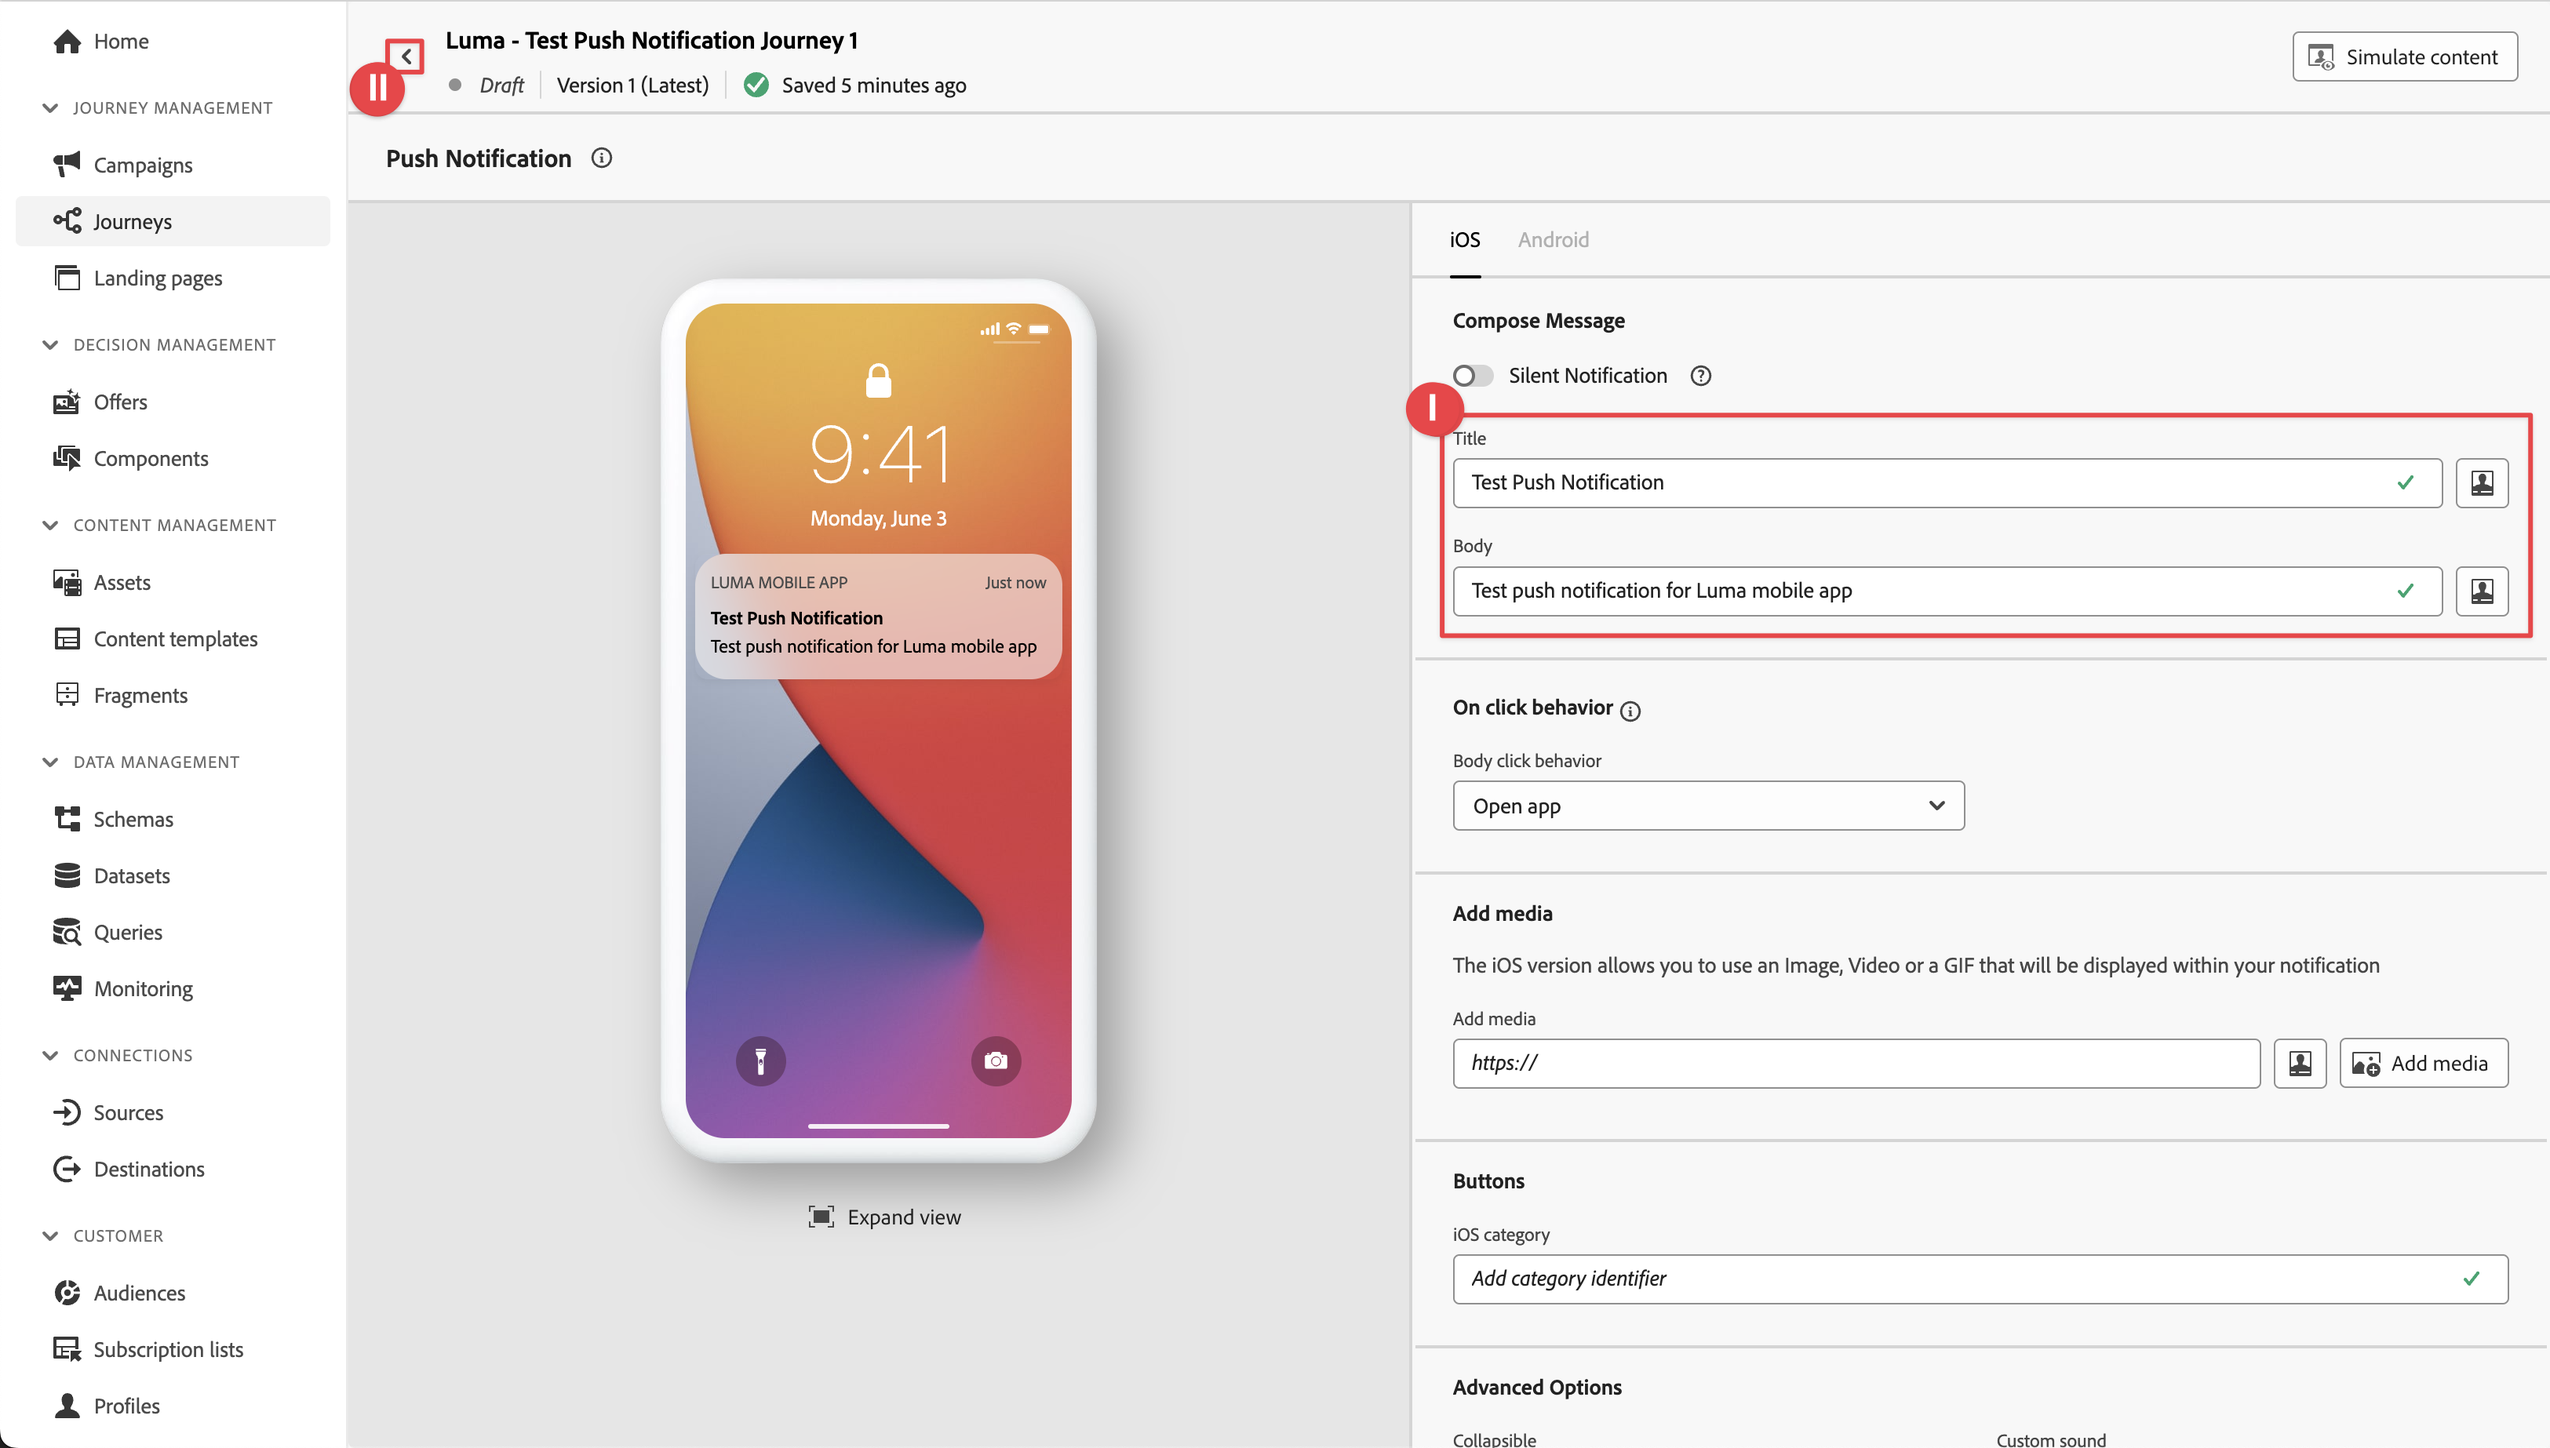
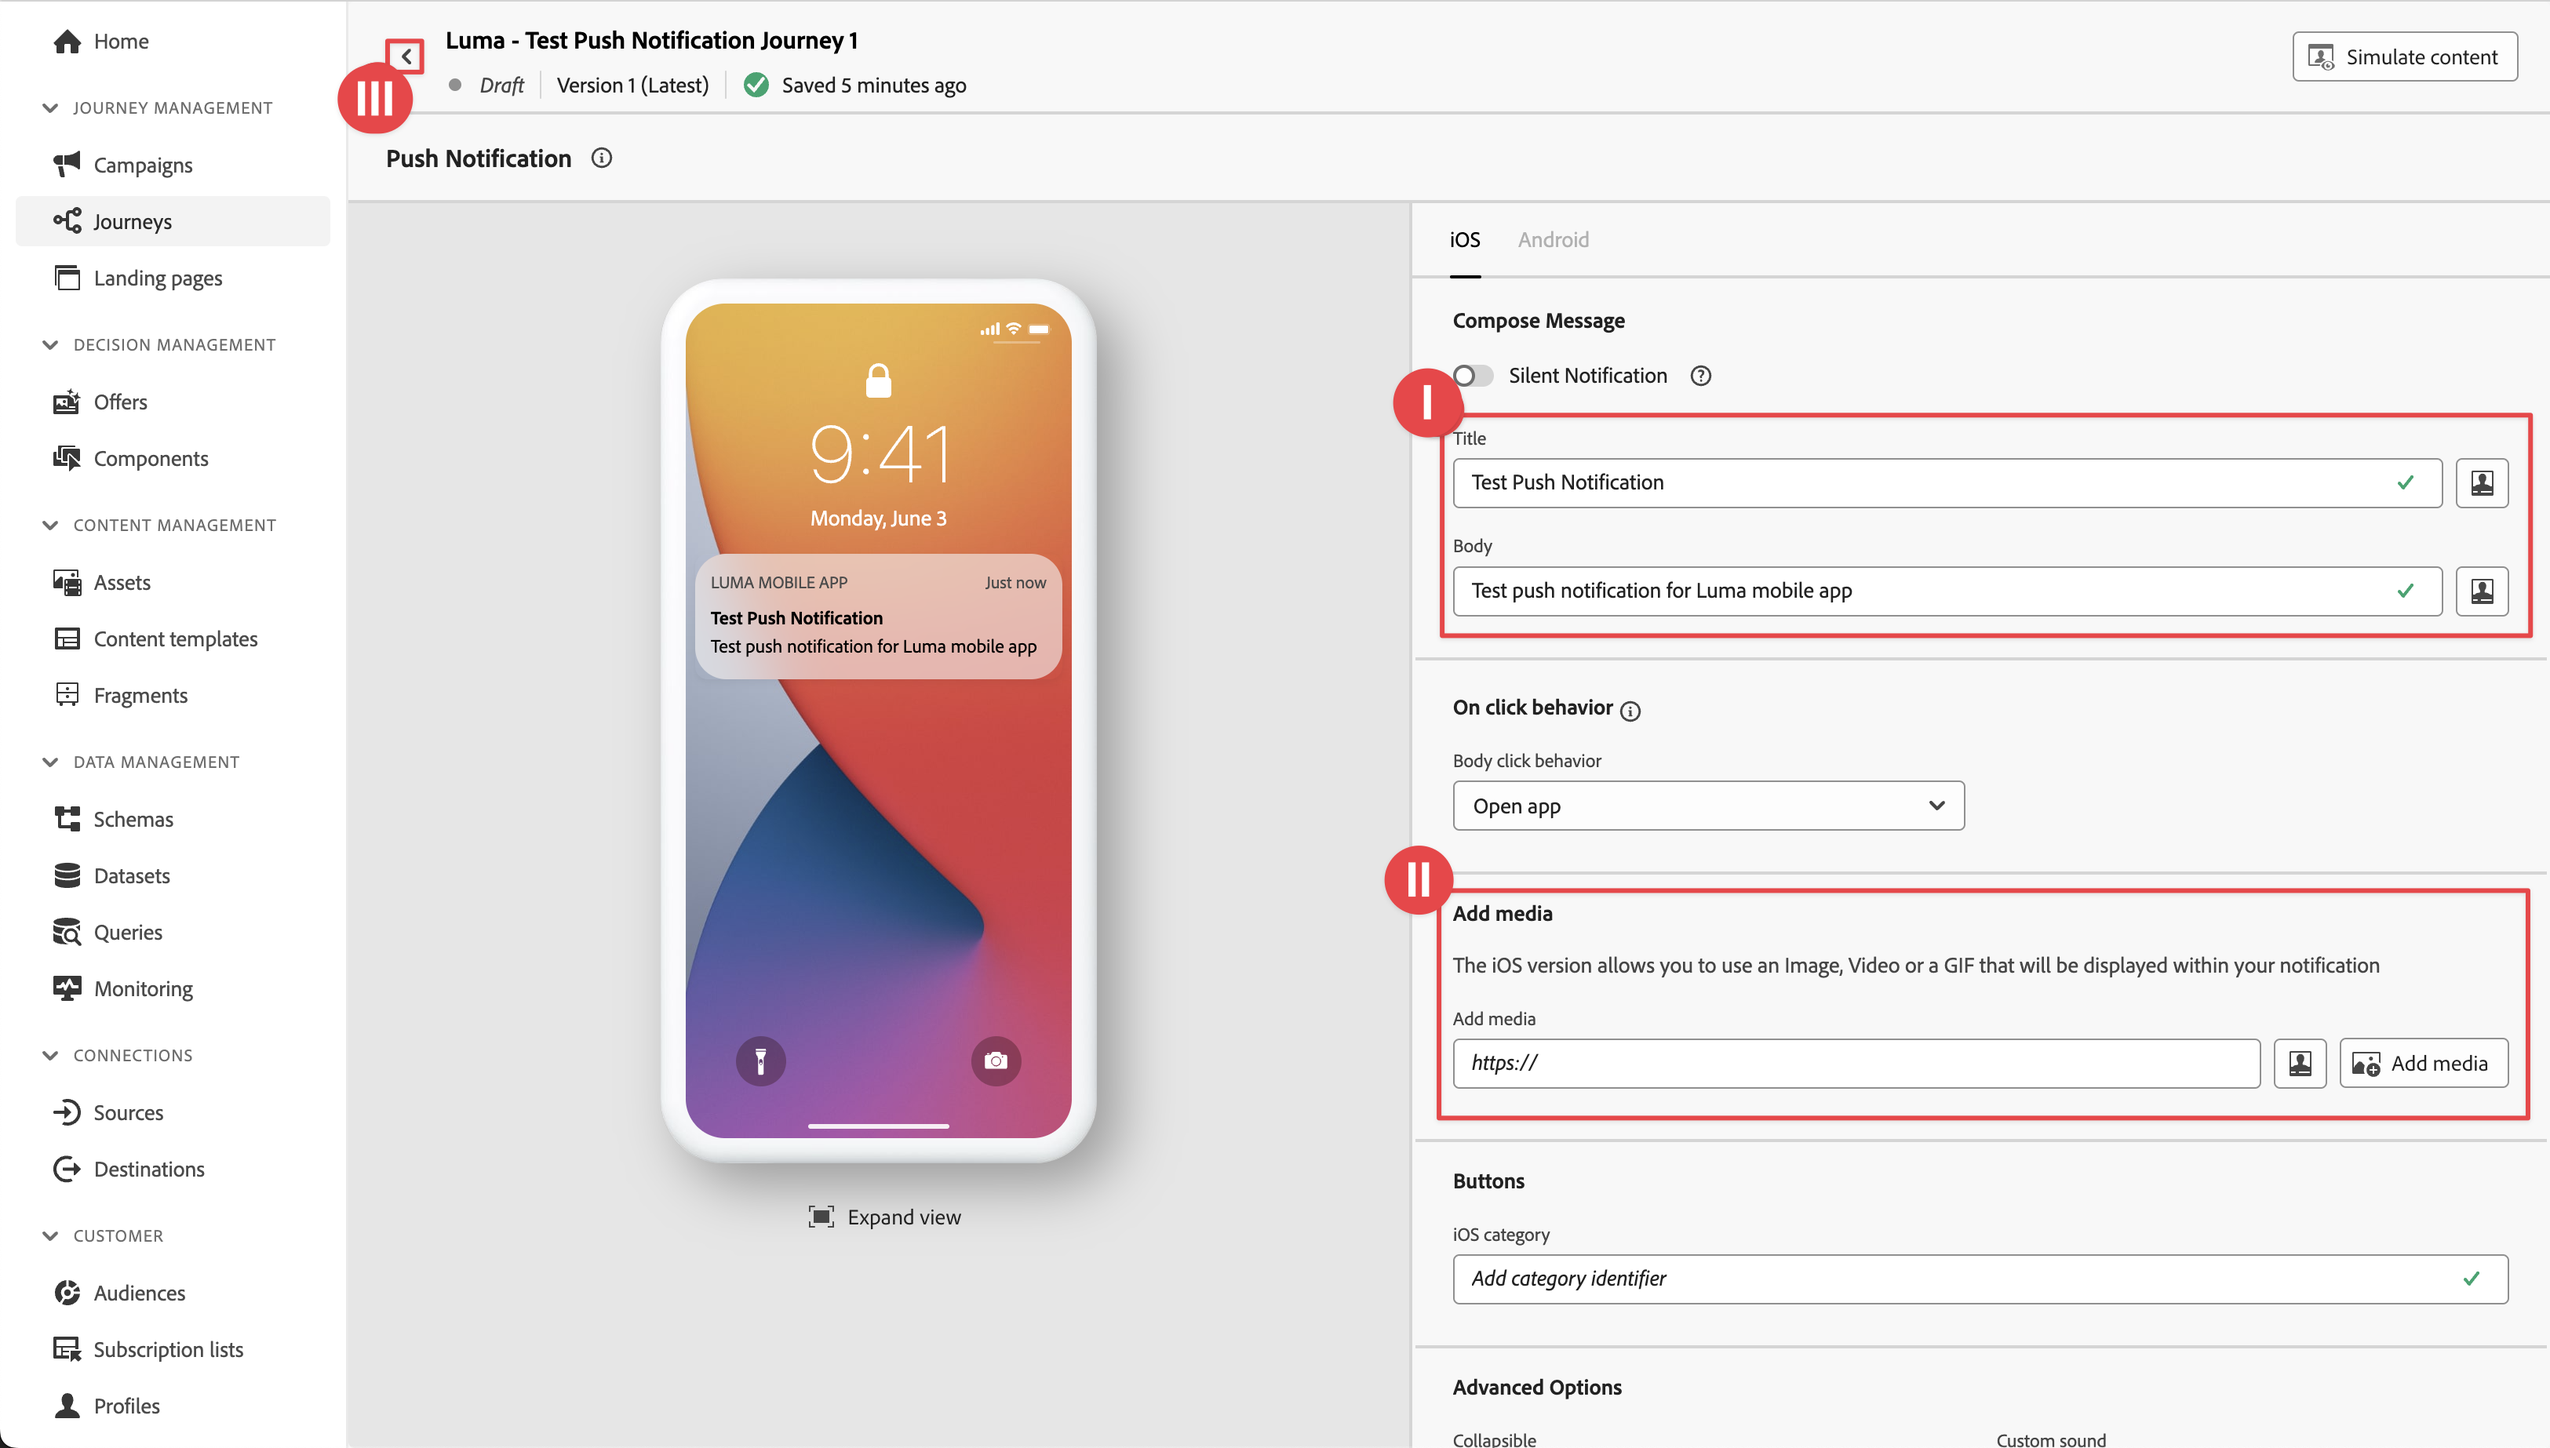
Updates
- Adapted requirements for in-app and push around datastreams and extensions based on feedback.
- Updated screenshots accordingly.

diff --git a/help/tutorial-mobile-sdk/journey-optimizer-inapp.md b/help/tutorial-mobile-sdk/journey-optimizer-inapp.md
@@ -73,7 +73,7 @@ To ensure data send from your mobile app to the Edge Network is forwarded to Jou
 1. To save your datastream configuration, select **[!UICONTROL Save]**.
 
 
-   ![AEP datastream configuration](assets/datastream-aep-configuration.png)
+   ![AEP datastream configuration](assets/datastream-ajo-inapp-configuration.png)
 
 
 ### Install Journey Optimizer tags extension
@@ -85,16 +85,9 @@ For your app to work with Journey Optimizer, you must update your tag property.
 1. Select **[!UICONTROL Catalog]**.
 1. Search for the **[!UICONTROL Adobe Journey Optimizer]** extension.
 1. Install the extension.
-1. In the **[!UICONTROL Install Extension]** dialog
-   1. Select an environment, for example **[!UICONTROL Development]**.
-   1. Select the **[!UICONTROL AJO Push Tracking Experience Event Dataset]** dataset from the **[!UICONTROL Event Dataset]** list.
-   1. Select **[!UICONTROL Save to Library and Build]**.
-       ![AJO extension settings](assets/push-tags-ajo.png)
 
->[!NOTE]
->
->If you don't see `AJO Push Tracking Experience Event Dataset` as an option, contact customer care.
->
+When *only* using in-app messages in your app, in **[!UICONTROL Install Extension]** or **[!UICONTROL Configure Extension]**, you do not need to configure anything. However, if you already have followed the [Push notifications](journey-optimizer-push.md) lesson in the tutorial, you will see that for the **[!UICONTROL Development]** environment, the **[!UICONTROL AJO Push Tracking Experience Event Dataset]** dataset is selected from the **[!UICONTROL Event Dataset]** list.
+
 
 ### Implement Journey Optimizer in the app
 

diff --git a/help/tutorial-mobile-sdk/journey-optimizer-push.md b/help/tutorial-mobile-sdk/journey-optimizer-push.md
@@ -327,6 +327,7 @@ Your next step is to create the journey that triggers the sending of the push no
        In the **[!UICONTROL Push Notification]** editor:
 
        1. Enter a **[!UICONTROL Title]**, for example `Luma Test Push Notification` and enter a **[!UICONTROL Body]**, for example `Test push notification for Luma mobile app`.
+       1. Optionally, you can enter a link to an image (.png or .jpg) in **[!UICONTROL Add media]**. If you do so, the image will be part of the push notification.
        1. To save and leave the editor, select ![Chevron left](https://spectrum.adobe.com/static/icons/workflow_18/Smock_ChevronLeft_18_N.svg).
           ![Push editor](assets/ajo-push-editor.png)
 
